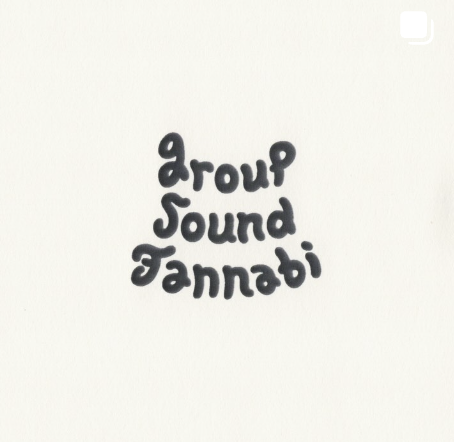
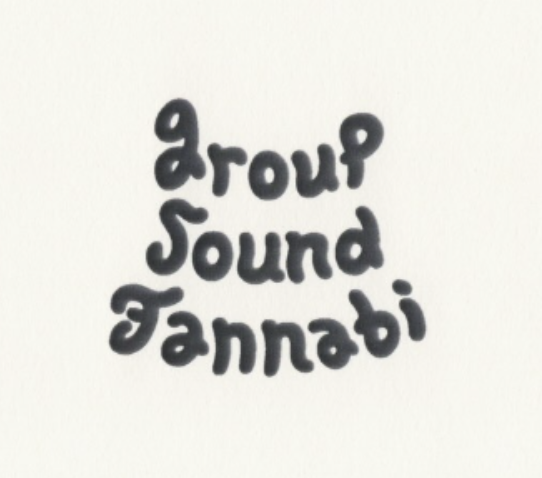
modify font size

Changed region(s): [[0.185, 0.2059, 0.8018, 0.7941]]

diff --git a/HW/NEXT_HW_2/index.html b/HW/NEXT_HW_2/index.html
@@ -15,7 +15,7 @@
         <div class="nav-top">
             <span class="fa-solid fa-chevron-left fa-xl"></span>
             <div class="account">
-                <span class="account-name">bandjannabi</span>
+                <span class="account-name account-text">bandjannabi</span>
                 <span class="fa-solid fa-circle-check"></span>
             </div>
             <span class="fa-regular fa-bell fa-xl"></span>
@@ -24,14 +24,14 @@
 
         <!-- Main Info -->
         <div class="main-info">
-            <img class="profile large-profile" src="image/profile/my_profile.png" alt="잔나비" width="100px;"></img>
+            <img class="profile large-profile" src="image/profile/my_profile.png" alt="잔나비" width="90px;" height="90px"></img>
             <div class="stat">
                 <div class="posting">
                     <span class="stat-info">2,121</span>
                     <span class="plain-text stat-info">게시물</span>
                 </div>
                 <div class="follower">
-                    <span class="stat-info">18.1만</span>
+                    <span class="stat-info">18만</span>
                     <span class="plain-text stat-info">팔로워</span>
                 </div>
                 <div class="following">
@@ -47,7 +47,9 @@
             <span class="account-subintro plain-text">오늘밤 우리는 내일 부를 노랠 짓네</span>
             <span class="fa-solid fa-link fa-sm"></span>
             <span class="account-link">
-                <a href="https://linktr.ee/bandjannabi?fbclid=PAAabd8bYvAFI25WYK88uKBvzakrXcQtd_eH0GS_PgSzP1T9RAN8tHXc7iyhw_aem_AZMPdSeQeYJwWuONUrX4RwNlQGRQQXQ-Goo491TmTy1IunQN4ZyeQzFJv3fj4ulJC0A">linktr.ee/bandjannabi</a>
+                <a href="https://linktr.ee/bandjannabi?fbclid=PAAabd8bYvAFI25WYK88uKBvzakrXcQtd_eH0GS_PgSzP1T9RAN8tHXc7iyhw_aem_AZMPdSeQeYJwWuONUrX4RwNlQGRQQXQ-Goo491TmTy1IunQN4ZyeQzFJv3fj4ulJC0A" class="plain-text">
+                    <span class="plain-text">linktr.ee/bandjannabi</span>
+                </a>
             </span>
         </div>
 
@@ -79,19 +81,19 @@
         <!-- Instagram Story -->
         <div class="story">
             <a class="story-profile" href="https://www.instagram.com/s/aGlnaGxpZ2h0OjE4MjkwNjAwMDA4MTM2Nzc1?story_media_id=3126366940084073349&igsh=MWdhanZqeGE4YTk2MQ==">
-                <img src="image/story/story1.png" class="profile story-image" width="50" height="50"></img>
+                <img src="image/story/story1.png" class="profile story-image" width="55" height="55"></img>
                 <span class="story-text">'pony'</span>
             </a>
             <a class="story-profile" href="https://www.instagram.com/s/aGlnaGxpZ2h0OjE3OTczOTE0MDQ1MjYyMzM3?story_media_id=3096822181831951320&igsh=aDFidnUwN2Voa2Vw">
-                <img src="image/story/story2.png" class="profile story-image" width="50" height="50"></img>
+                <img src="image/story/story2.png" class="profile story-image" width="55" height="55"></img>
                 <span class="story-text">🏰🍁</span>
             </a>
             <a class="story-profile" href="https://www.instagram.com/s/aGlnaGxpZ2h0OjE3OTYyMDg3Mjk3NjU5Njg5?story_media_id=2820464739669404711&igsh=NnhwMzgwMmZ3NXUw">    
-                <img src="image/story/story3.png" class="profile story-image" width="50" height="50"></img>
+                <img src="image/story/story3.png" class="profile story-image" width="55" height="55"></img>
                 <span class="story-text">초록을거머쥔…</span>
             </a>
             <a class="story-profile" href="https://www.instagram.com/s/aGlnaGxpZ2h0OjE3OTU1Mzg1NjY2ODA1ODQw?story_media_id=2826838051139691894&igsh=MWxvZTcwbmt5NTQ5dg==">
-                <img src="image/story/story4.png" class="profile story-image" width="50" height="50"></img>
+                <img src="image/story/story4.png" class="profile story-image" width="55" height="55"></img>
                 <span class="story-text">📷</span>
             </a>
         </div>

diff --git a/HW/NEXT_HW_2/style.css b/HW/NEXT_HW_2/style.css
@@ -4,9 +4,9 @@ body {
     width: 390px;
     height: 800px;
     background-color: #000000;
-    color: #ffffff;
-    font-weight: bold;
-    font-size: 16px;
+    color: #e6e2e2;
+    font-weight: 600;
+    font-size: 15px;
     font-family: Arial, Helvetica, sans-serif;
 }
 
@@ -16,21 +16,27 @@ body {
 
 /* Fonts */
 
+.account-text {
+    font-weight: bold;
+    font-size: 16px;
+}
+
 .plain-text {
-    font-weight: 500;
+    font-weight: 300;
     font-size: 14px;
+    color: #e6e2e2;
 }
 
 .interaction-text {
     font-weight: 700;
-    font-size: 14px;
+    font-size: 13px;
 }
 
 .story-text {
     font-weight: 500;
     font-size: 11px;
     margin-top: 10%;
-    color: #ffffff;
+    color: #e6e2e2;
 }
 
 /* Top Navigation */
@@ -38,7 +44,7 @@ body {
 .nav-top {
     display: flex;
     width: 390px;
-    height: 60px;
+    height: 50px;
     align-items: center;
     justify-content: space-between;
 }
@@ -60,6 +66,7 @@ body {
 
 .fa-circle-check {
     color: blueviolet;
+    padding-top: 1%;
 }
 
 .fa-bell,
@@ -83,6 +90,7 @@ body {
 
 .large-profile {
     padding: 5px;
+    margin-left: 1%;
 }
 
 .stat-info {
@@ -101,12 +109,12 @@ body {
 
 .account-intro {
     display: flex;
-    margin: 2%;
+    margin: 1.5% 2%;
 }
 
 .account-subintro {
     display: flex;
-    margin: 2%;
+    margin: 1.5% 2%;
 }
 
 .fa-link {
@@ -114,12 +122,11 @@ body {
 }
 
 .account-link {
-    font-size: 14px;
+    color: #e6e2e2;
 }
 
 .account-link a {
     text-decoration: none;
-    color: rgb(176, 148, 201);
 }
 
 /* Friend */
@@ -155,7 +162,7 @@ body {
 }
 
 .friend-follow {
-    margin-left: 3%;
+    margin-left: 1%;
     font-size: 0.9em;
     word-wrap: break-word;
     text-align: left;
@@ -175,7 +182,7 @@ body {
     flex-grow: 2;
     text-align: center;
     line-height: 30px;
-    background-color: rgb(73, 71, 71);
+    background-color: #282727;
     border-radius: 6%;
     height: 30px;
     margin-left: 2%;
@@ -203,7 +210,7 @@ body {
 
 .story-image {
     padding: 5%;
-    border: 1.5px solid grey;
+    border: 1px solid grey;
 }
 
 /* Posting Navigation */
@@ -250,7 +257,7 @@ body {
 }
 
 .selected-img {
-    border-top: 1px solid #ffffff;
+    border-top: 1px solid #e6e2e2;
 }
 
 .non-selected-img {
